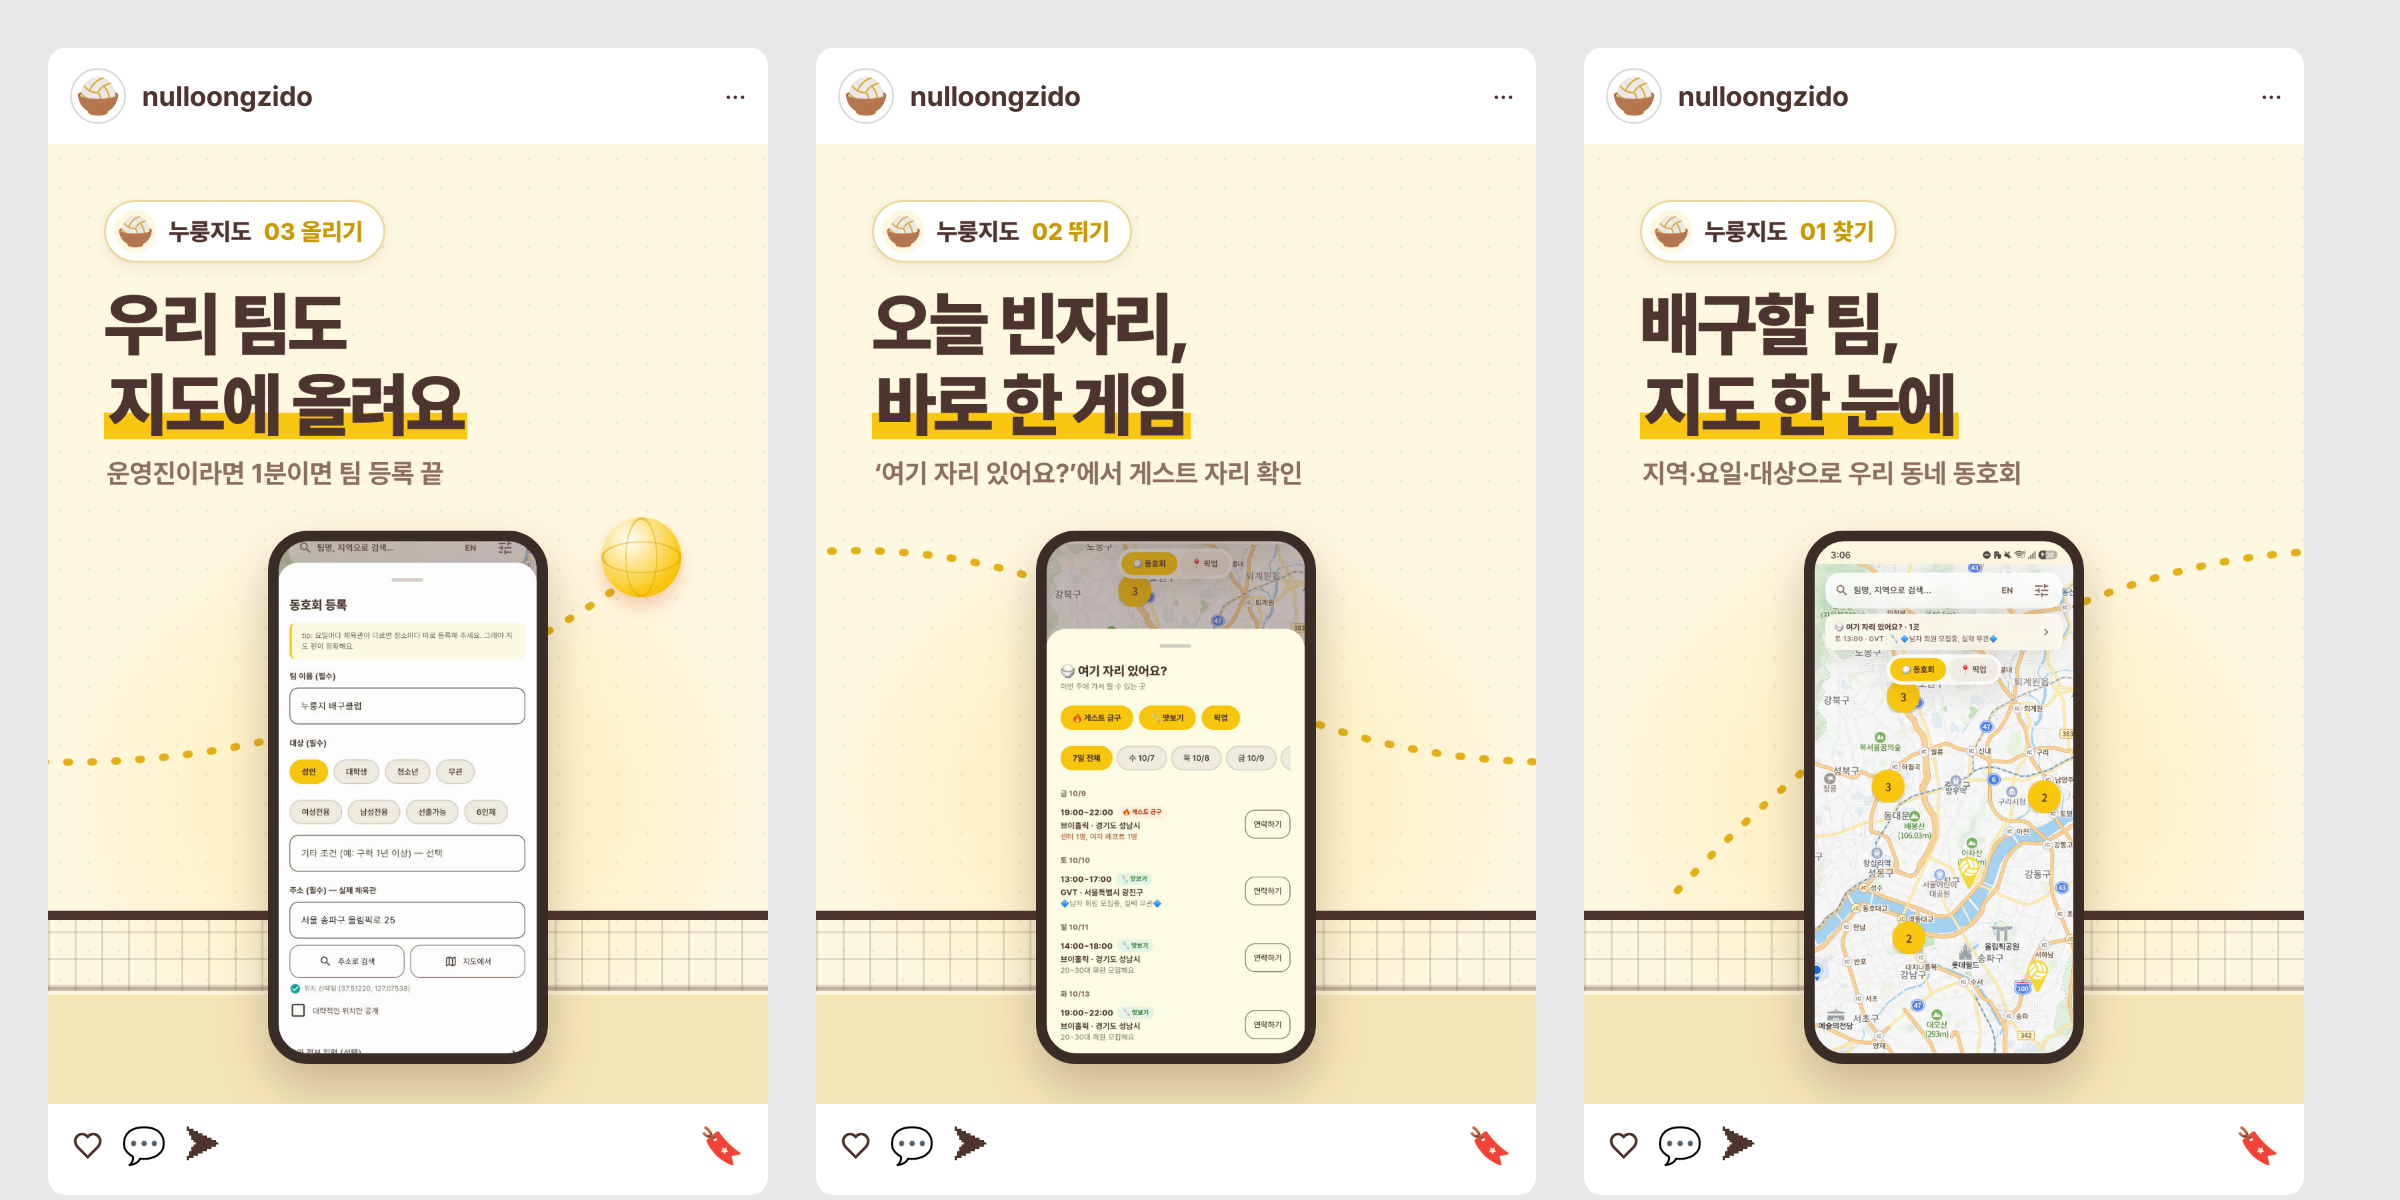
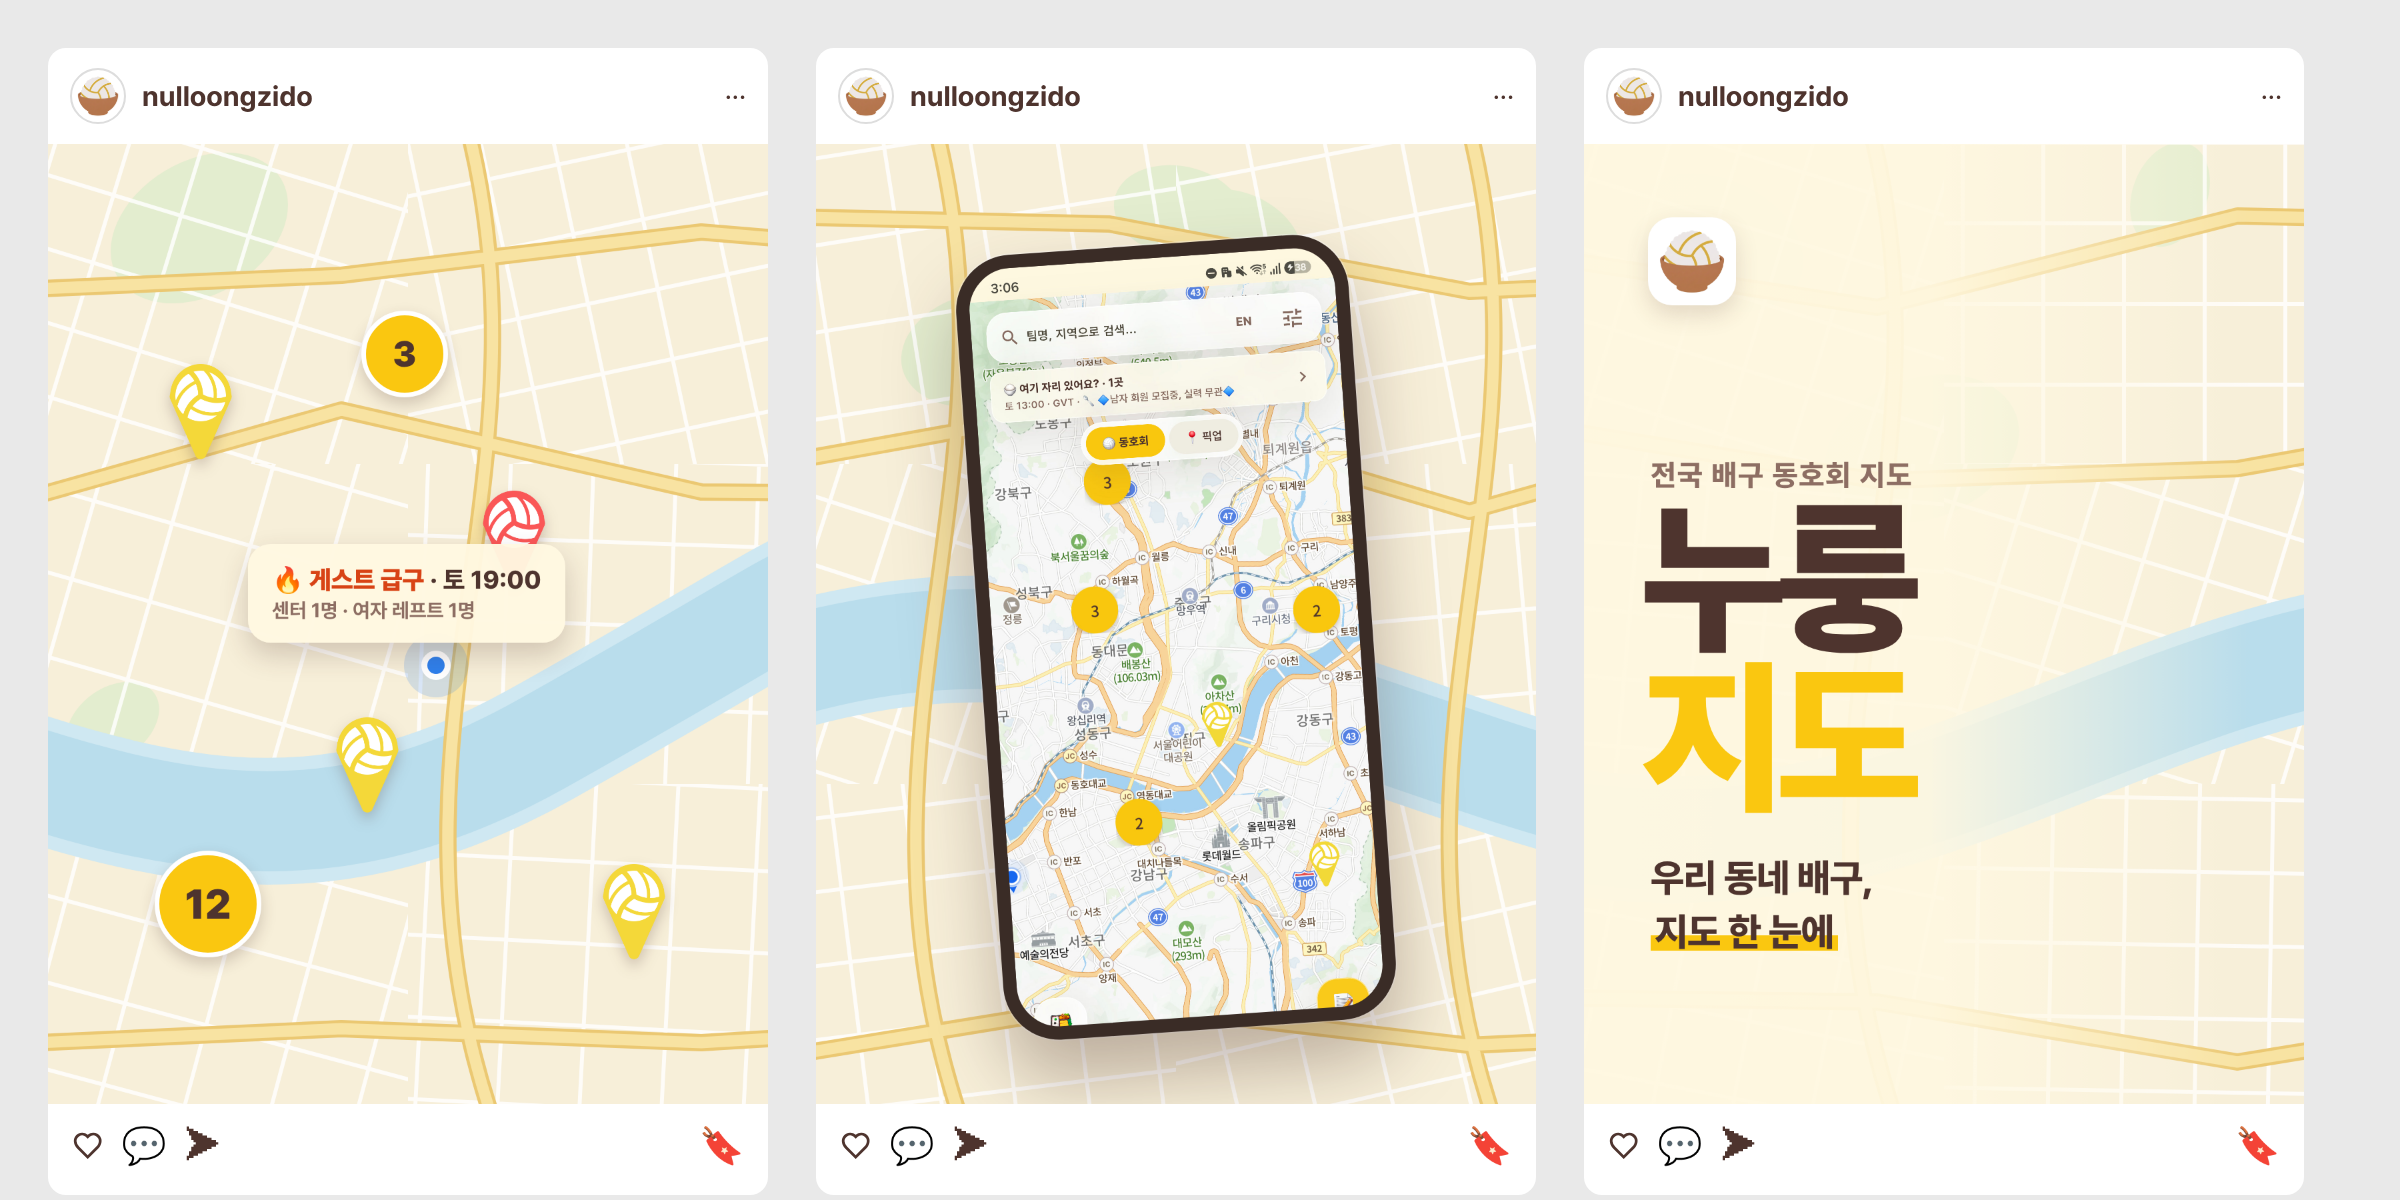
feat(marketing): 3분할을 지도 한 장면으로 — 글자 / 폰 / 동네 장면
세 조각에 같은 카드 틀을 반복하던 것을 걷어내고, 큰 지도 한 장 위에서
조각마다 역할을 나눴다(왼쪽 브랜드 글자 · 가운데 앱 화면 · 오른쪽 마커 장면).
이음매는 강·큰길만 넘고 글자·물건은 조각 안에서 끝나 낱장으로도 선다.

Claude-Session: https://claude.ai/code/session_01Dg9gZLnpx5DLHg51oPstUC

diff --git a/scripts/capture/make_grid.py b/scripts/capture/make_grid.py
@@ -16,8 +16,10 @@
 안전 영역 (각 조각 기준):
   - 오른쪽 위 170x170 비우기: 고정 게시물엔 핀 아이콘이 여기 뜬다.
   - 이음매 좌우 40px 안에는 글자를 두지 않기: 프로필 칸 사이 흰 틈에 글자가 끊긴다.
-  - 홈 피드에선 조각이 한 장씩 따로 보인다 → 조각마다 완결된 카드로(제목·설명·화면).
-    이음매를 넘는 건 배경(무늬·네트·궤적)만. 글자·물건이 반으로 잘리면 낱장이 망가진다.
+  - 홈 피드에선 조각이 한 장씩 따로 보인다. 그렇다고 세 장에 같은 틀(제목·설명·화면)을
+    찍으면 카드 세 장으로 보여 한 장면 맛이 죽는다 → 조각마다 역할을 달리한다
+    (글자 / 물건 / 장면). 글자는 한 조각에만. 이음매는 배경(지도·강·큰길)만 넘고,
+    글자·물건은 반으로 잘리지 않게 조각 안에서 끝낸다.
 
 사용법:
   python scripts/capture/make_grid.py                  # 누룽지도 기본 시안(pinned) + guide
@@ -89,75 +91,110 @@ def split(pano, out):
 
 
 # ── 누룽지도 기본 시안 ───────────────────────────────────────
-# 조각 = 완결된 카드 한 장. 세 장이 같은 뼈대(브랜드 칩 · 제목 · 설명 · 폰 화면)를 쓰고,
-# 이어 보이게 하는 건 배경(점 무늬 · 네트 · 공 궤적)뿐이다 — 글자나 물건은 이음매를 넘지 않는다.
-# 그래서 홈 피드에 한 장씩 떠도 각자 표지로 읽히고, 프로필에선 한 장면으로 이어진다.
-CARDS = (  # (번호, 동사, 제목 두 줄, 설명, 화면, 화면 세로 위치)
-    ("01", "찾기", "배구할 팀,<br><span class=hl>지도 한 눈에</span>",
-     "지역·요일·대상으로 우리 동네 동호회", "01_map.jpg", "top"),
-    ("02", "뛰기", "오늘 빈자리,<br><span class=hl>바로 한 게임</span>",
-     "‘여기 자리 있어요?’에서 게스트 자리 확인", "room@13.jpg", "bottom"),
-    ("03", "올리기", "우리 팀도<br><span class=hl>지도에 올려요</span>",
-     "운영진이라면 1분이면 팀 등록 끝", "register@30.jpg", "18%"),
-)
+# 큰 지도 한 장 위에 세 조각이 서로 다른 일을 한다 — 같은 틀을 세 번 찍지 않는다.
+#   왼쪽  글자(브랜드)  : 글자는 여기에만 둔다
+#   가운데 물건(앱 화면): 지도 위에 놓인 폰
+#   오른쪽 장면(지도)   : 마커가 모여 있는 동네 — 앱 말풍선 하나
+# 이어 주는 건 지도(강·큰길)이고, 마커·폰·글자는 조각 안에서 끝난다.
+import random  # noqa: E402
+
+MAP_SEED = 7
+
+
+def map_svg():
+    rnd = random.Random(MAP_SEED)
+    out = [f"<svg class=map width={PW} height={TH} viewBox='0 0 {PW} {TH}'>"]
+    for _ in range(9):  # 공원
+        x, y, r = rnd.randint(0, PW), rnd.randint(0, TH), rnd.randint(70, 170)
+        out.append(f"<ellipse cx={x} cy={y} rx={r} ry={int(r * .7)} fill='#E3EDCF' "
+                   f"transform='rotate({rnd.randint(0, 180)} {x} {y})'/>")
+    # 골목 — 540x480 칸마다 기울기가 다른 격자(칸 밖으로 안 넘치게 잘라서 겹침 없이)
+    out.append("<defs>")
+    cells = [(c * 540, r * 480) for r in range(3) for c in range(6)]
+    for i, (x, y) in enumerate(cells):
+        out.append(f"<clipPath id=c{i}><rect x={x} y={y} width=540 height=480/></clipPath>")
+    out.append("</defs>")
+    for i, (x, y) in enumerate(cells):
+        cx, cy = x + 270, y + 240
+        ang, step = rnd.randint(-18, 18), rnd.randint(95, 130)
+        lines = []
+        for k in range(-5, 6):
+            lines.append(f"M {cx - 500} {cy + k * step} L {cx + 500} {cy + k * step}")
+            lines.append(f"M {cx + k * step} {cy - 500} L {cx + k * step} {cy + 500}")
+        out.append(f"<g clip-path='url(#c{i})'><path d='{' '.join(lines)}' stroke='#FFFFFF' stroke-width=6 "
+                   f"fill=none opacity=.8 transform='rotate({ang} {cx} {cy})'/></g>")
+    river = "M -120 1010 C 520 1180, 900 640, 1500 760 S 2400 1180, 2900 900 S 3300 640, 3400 700"
+    out.append(f"<path d='{river}' stroke='#CFE8F2' stroke-width=190 fill=none stroke-linecap=round/>")
+    out.append(f"<path d='{river}' stroke='#B9DDEC' stroke-width=150 fill=none stroke-linecap=round/>")
+    roads = []
+    for y0 in (180, 470, 1290):  # 큰길 — 세 조각을 가로지른다
+        pts = [(x, y0 + rnd.randint(-90, 90)) for x in range(-100, PW + 600, 540)]
+        roads.append("M " + " L ".join(f"{x} {y}" for x, y in pts))
+    for x0 in (420, 1250, 2050, 2780):  # 세로 큰길
+        roads.append(f"M {x0} -60 C {x0 + 160} 500, {x0 - 160} 900, {x0 + 60} 1500")
+    d = " ".join(roads)
+    out.append(f"<path d='{d}' stroke='#EBC872' stroke-width=26 fill=none stroke-linejoin=round/>")
+    out.append(f"<path d='{d}' stroke='#F8E3A2' stroke-width=17 fill=none stroke-linejoin=round/>")
+    out.append("</svg>")
+    # HTML 파서는 따옴표 없는 값 뒤의 '/>' 를 값에 붙여 읽는다(round/ → 안 닫힘) — 띄워 둔다
+    return "".join(out).replace("/>", " />")
+
 
 PINNED_CSS = """
-.pano{position:relative;width:3240px;height:1440px;overflow:hidden;
-  background:radial-gradient(760px 620px at 540px 980px,#FFEDB0 0%,rgba(255,237,176,0) 70%),
-             radial-gradient(760px 620px at 1620px 980px,#FFEDB0 0%,rgba(255,237,176,0) 70%),
-             radial-gradient(760px 620px at 2700px 980px,#FFEDB0 0%,rgba(255,237,176,0) 70%),#FFF8E1}
-.dots{position:absolute;inset:0;background-image:radial-gradient(#E9DDB6 2.4px,transparent 2.6px);
-  background-size:44px 44px;opacity:.55}
-.arc{position:absolute;inset:0}
-.net{position:absolute;left:0;right:0;top:1150px;height:120px;
-  background:
-   repeating-linear-gradient(90deg,rgba(78,52,46,.16) 0 3px,transparent 3px 40px),
-   repeating-linear-gradient(0deg,rgba(78,52,46,.16) 0 3px,transparent 3px 40px);
-  border-top:14px solid #4E342E;border-bottom:6px solid rgba(78,52,46,.35)}
-.floor{position:absolute;left:0;right:0;top:1276px;bottom:0;background:#F5E6B8}
-.tile{position:absolute;top:0;width:1080px;height:1440px}
-.chip{position:absolute;left:84px;top:84px;display:flex;align-items:center;gap:18px;
-  padding:12px 30px 12px 12px;border-radius:999px;background:#fff;border:3px solid #EAD9A0;
-  font-size:36px;font-weight:800;box-shadow:0 8px 20px rgba(78,52,46,.08)}
-.chip i{width:64px;height:64px;border-radius:50%;background:#FFF8E1 url(logo.png) center/125% no-repeat}
-.chip em{font-style:normal;color:#C79A00}
-.title{position:absolute;left:84px;top:210px;font-size:104px;font-weight:900;line-height:1.16;letter-spacing:-.04em}
-.hl{background:linear-gradient(transparent 60%,#FAC710 60%,#FAC710 92%,transparent 92%);padding:0 6px}
-.sub{position:absolute;left:88px;top:470px;font-size:40px;font-weight:700;color:#8D6E63}
-.phone{position:absolute;left:330px;top:580px;width:420px;height:800px;border-radius:60px;
-  border:16px solid #3A2C26;background:#3A2C26 no-repeat;background-size:100% auto;
-  box-shadow:0 36px 70px rgba(78,52,46,.26)}
-.ball{position:absolute;width:120px;height:120px;border-radius:50%;
-  background:radial-gradient(circle at 34% 28%,#fff,#FAC710 70%,#F0B800);box-shadow:0 16px 26px rgba(216,67,21,.22)}
-.ball::before,.ball::after{content:"";position:absolute;inset:0;border-radius:50%;border:4px solid #E0A800;opacity:.55}
-.ball::before{transform:scaleX(.4)}.ball::after{transform:scaleY(.4)}
+.pano{position:relative;width:3240px;height:1440px;overflow:hidden;background:#F7EFD9}
+.map{position:absolute;inset:0}
+/* 왼쪽: 지도 위에 크림을 덮어 글자 자리를 만든다. 이음매 전에 완전히 걷힌다 */
+.veil{position:absolute;left:0;top:0;width:1000px;height:1440px;
+  background:linear-gradient(90deg,rgba(255,248,225,.97) 0,rgba(255,248,225,.93) 52%,rgba(255,248,225,0) 100%)}
+.logo{position:absolute;left:96px;top:110px;width:132px;height:132px;border-radius:36px;
+  background:#fff url(logo.png) center/118% no-repeat;box-shadow:0 14px 34px rgba(78,52,46,.16)}
+.kick{position:absolute;left:100px;top:470px;font-size:44px;font-weight:800;color:#8D6E63;letter-spacing:.04em}
+.name{position:absolute;left:86px;top:530px;font-size:250px;font-weight:900;line-height:.96;letter-spacing:-.05em;color:#4E342E}
+.name .y{color:#FAC710}
+.tag{position:absolute;left:100px;top:1060px;font-size:58px;font-weight:800;line-height:1.4;letter-spacing:-.02em;color:#4E342E}
+.hl{background:linear-gradient(transparent 58%,#FAC710 58%,#FAC710 92%,transparent 92%);padding:0 6px}
+/* 가운데: 폰 */
+.phone{position:absolute;left:1325px;top:150px;width:590px;height:1180px;border-radius:84px;
+  border:20px solid #3A2C26;background:#3A2C26 url(01_map.jpg) center top/100% auto no-repeat;
+  transform:rotate(-4deg);box-shadow:0 60px 110px rgba(78,52,46,.35),0 0 0 2px rgba(255,255,255,.4)}
+/* 오른쪽: 동네 장면 */
+.mk{position:absolute;width:118px;filter:drop-shadow(0 10px 10px rgba(78,52,46,.25))}
+.cl{position:absolute;display:grid;place-items:center;border-radius:50%;background:#FAC710;
+  border:7px solid #fff;color:#4E342E;font-weight:900;box-shadow:0 10px 22px rgba(78,52,46,.22)}
+.me{position:absolute;width:44px;height:44px;border-radius:50%;background:#2F80ED;border:9px solid #fff;
+  box-shadow:0 0 0 26px rgba(47,128,237,.18)}
+.toast{position:absolute;padding:28px 36px;border-radius:34px;background:rgba(255,248,225,.96);
+  box-shadow:0 18px 40px rgba(78,52,46,.22);font-size:38px;font-weight:800;color:#4E342E;line-height:1.35}
+.toast small{display:block;font-size:30px;font-weight:700;color:#8D6E63}
+.toast b{color:#D84315}
 """
 
 
 def pinned_body():
-    tiles = []
-    for i, (no, verb, title, sub, shot, pos) in enumerate(CARDS):
-        tiles.append(
-            f"<div class=tile style='left:{i * TW}px'>"
-            f"<div class=chip><i></i>누룽지도 <em>{no} {verb}</em></div>"
-            f"<div class=title>{title}</div><div class=sub>{sub}</div>"
-            f"<div class=phone style=\"background-image:url('{shot}');background-position:center {pos}\"></div>"
-            "</div>")
-    # 공 궤적은 폰 사이 빈 곳(이음매 근처)에서만 보이고, 폰 뒤로 지나간다
-    return (
-        "<div class=pano><div class=dots></div><div class=floor></div><div class=net></div>"
-        "<svg class=arc width=3240 height=1440 viewBox='0 0 3240 1440'>"
-        "<path d='M 140 1120 C 700 520, 1300 520, 1620 760 S 2560 1000, 3050 640' fill=none stroke='#E0A800' "
-        "stroke-width=11 stroke-linecap=round stroke-dasharray='4 32' opacity=.9 /></svg>"
-        + "".join(tiles)
-        + "<div class=ball style='left:2990px;top:560px'></div></div>")
+    R = 2160
+    scene = (
+        f"<img class=mk src=marker_yellow.png style='left:{R + 170}px;top:330px'>"
+        f"<img class=mk src=marker_red.png style='left:{R + 640}px;top:520px'>"
+        f"<img class=mk src=marker_yellow.png style='left:{R + 420}px;top:860px'>"
+        f"<img class=mk src=marker_yellow.png style='left:{R + 820}px;top:1080px'>"
+        f"<div class=cl style='left:{R + 470}px;top:250px;width:130px;height:130px;font-size:54px'>3</div>"
+        f"<div class=cl style='left:{R + 160}px;top:1060px;width:160px;height:160px;font-size:62px'>12</div>"
+        f"<div class=me style='left:{R + 560}px;top:760px'></div>"
+        f"<div class=toast style='left:{R + 300}px;top:600px'>🔥 <b>게스트 급구</b> · 토 19:00"
+        "<small>센터 1명 · 여자 레프트 1명</small></div>")
+    return ("<div class=pano>" + map_svg() + "<div class=veil></div>"
+            "<div class=logo></div><div class=kick>전국 배구 동호회 지도</div>"
+            "<div class=name>누룽<br><span class=y>지도</span></div>"
+            "<div class=tag>우리 동네 배구,<br><span class=hl>지도 한 눈에</span></div>"
+            "<div class=phone></div>" + scene + "</div>")
 
 
 def stage_assets(work):
     shutil.copyfile(FONTS / "PretendardVariable.ttf", work / "PretendardVariable.ttf")
     shutil.copyfile(ROOT / "assets" / "nulloongzido logo_without bg.png", work / "logo.png")
-    for c in CARDS:
-        shutil.copyfile(SHOTS / c[4], work / c[4])
+    for c in ("yellow", "red"):
+        shutil.copyfile(ROOT / "assets" / "markers" / f"marker_{c}.png", work / f"marker_{c}.png")
+    shutil.copyfile(SHOTS / "01_map.jpg", work / "01_map.jpg")
 
 
 # ── 가이드 · 미리보기 ────────────────────────────────────────
